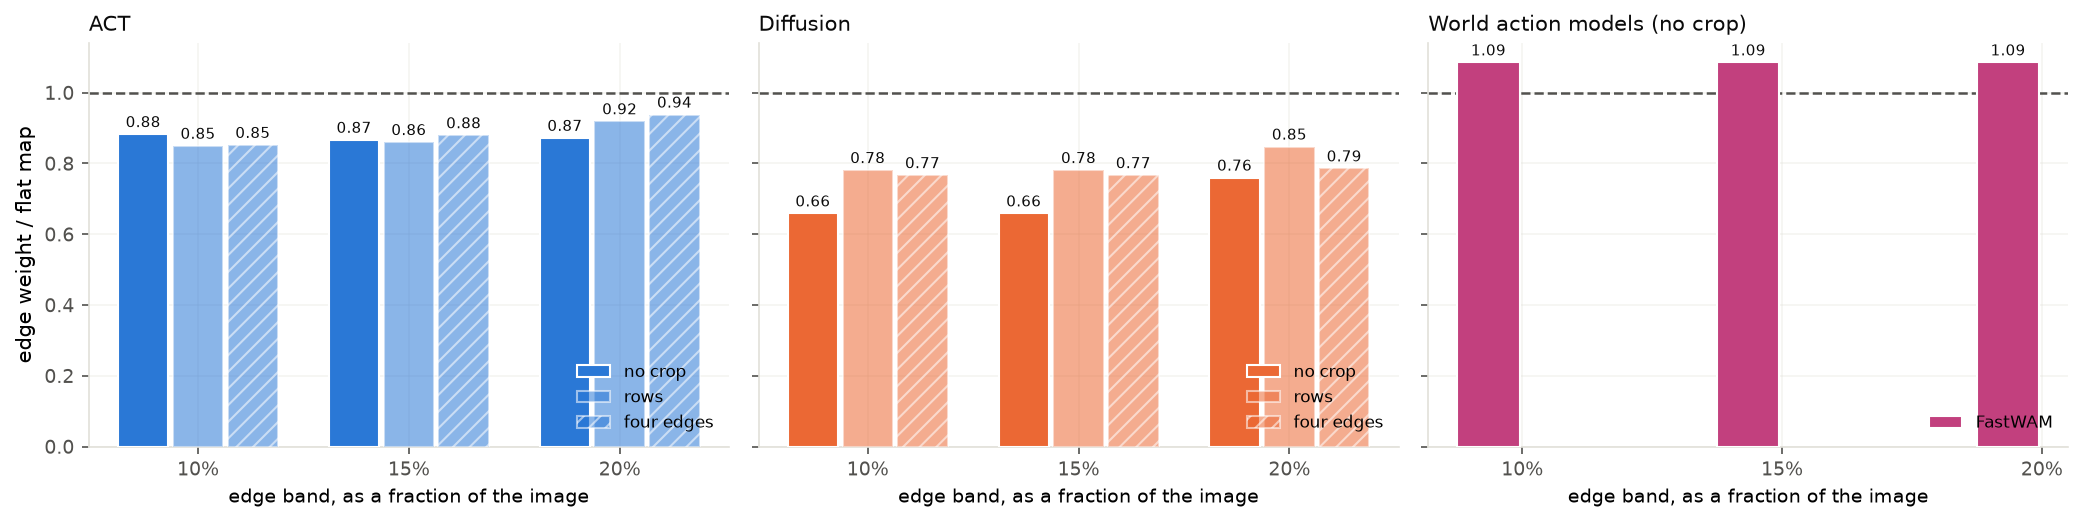
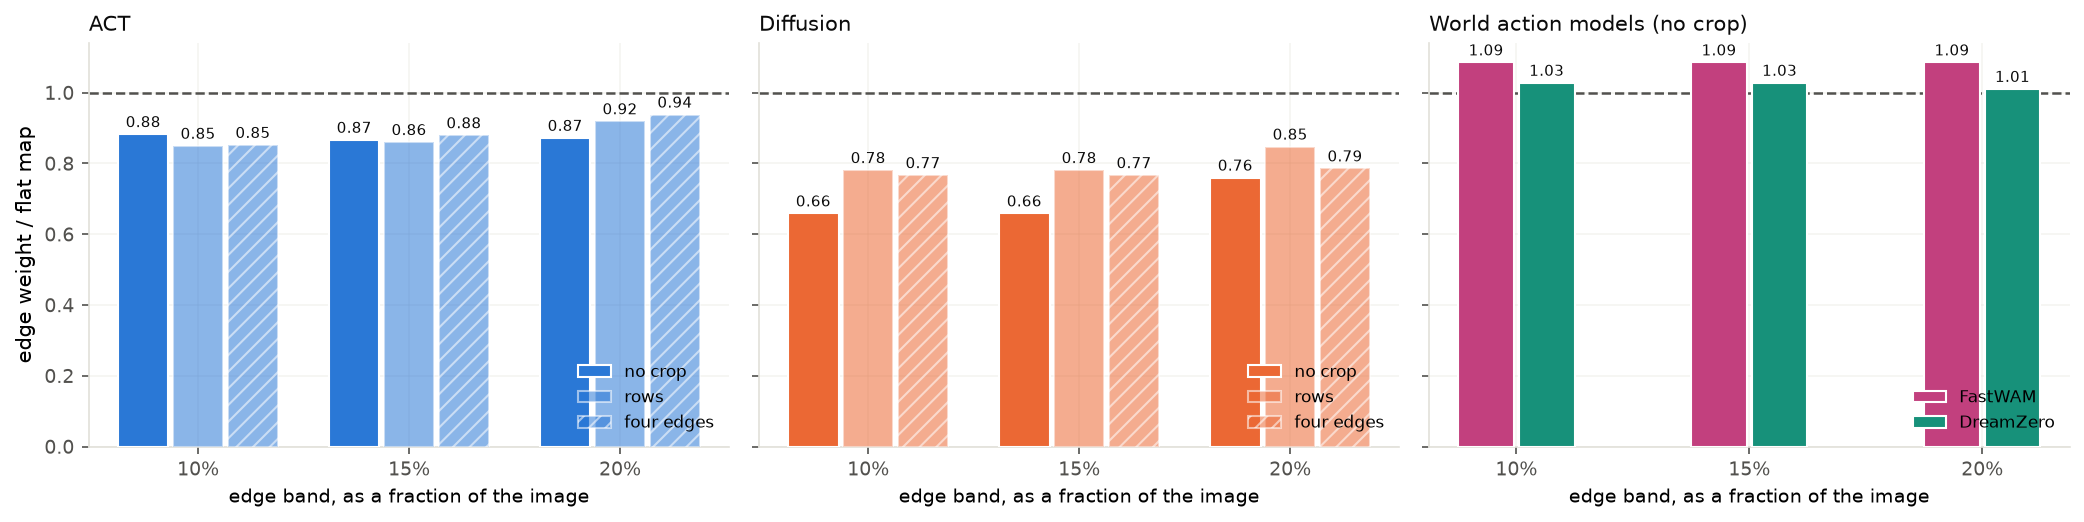
DreamZero Grad-CAM: no edge preference either
Fingertip edges get 1.01 to 1.03 of their area's share. Added to the rim figure
beside FastWAM, with its provenance.

Claude-Session: https://claude.ai/code/session_0196vDjqm3Zo6sQgqQLb5qwQ

diff --git a/documents/paper/training_analysis/sections/03_experiments.tex b/documents/paper/training_analysis/sections/03_experiments.tex
@@ -601,9 +601,11 @@ frames of a test demonstration, the edge band of every uncropped policy receives
 only two thirds to nine tenths of the Grad-CAM weight its area would get
 (Figure~\ref{fig:rim}), at every band width; the strong edge weighting of
 Figure~\ref{fig:gradcamevidence} occurs at some moments but not on average.
-FastWAM's fingertip edges receive 1.09 times their share, close to no
-preference, and its overhead image's edges 0.95 to 1.01. \pending{DreamZero's
-Grad-CAM edge ratio.}
+The world action models, whose maps are much coarser, show no preference
+either: FastWAM's fingertip edges receive 1.09 times their share and DreamZero's
+1.01 to 1.03, against 0.95 to 1.01 (FastWAM) and 1.07 to 1.24 (DreamZero) for
+the edges of the overhead image. Single DreamZero sensors range from 0.80 to
+1.36, with no sensor's edge consistently favoured across band widths.
 
 \begin{figure}[t]
   \centering
@@ -614,7 +616,8 @@ Grad-CAM edge ratio.}
   model looks at the edge \emph{less} than a model that ignored position would.
   Three band widths are shown.} \gn{The world action models' maps come from
   their frozen autoencoders (Section~\ref{sec:measures}); FastWAM's is $7\times7$
-  cells per fingertip, so all three bands are its outer ring of cells.}
+  cells per fingertip and DreamZero's $9\times9$, so for FastWAM all three bands
+  are its outer ring of cells.}
   \label{fig:rim}
 \end{figure}
 

diff --git a/documents/paper/training_analysis/sections/A_appendix.tex b/documents/paper/training_analysis/sections/A_appendix.tex
@@ -273,7 +273,14 @@ are held out. Everything else, including the random seed, is unchanged.
 each tactile Grad-CAM map is defined as a fraction of the image, so that maps of
 different resolution are treated alike. The weight inside the band is divided by
 the weight a flat map of the same size would put there. The maps come from test demonstration 58, every fifth frame; the
-reviewed draft used training demonstrations.
+reviewed draft used training demonstrations. \gn{For the world action models the maps are taken
+at the last feature map of each frozen autoencoder's encoder (its middle block)
+and back-propagated from the planned chunk, with gradients enabled
+through the sampler: for FastWAM from its last denoising step, for DreamZero
+from the chunk before its action smoothing, which would otherwise cut the
+gradient. FastWAM's fingertip map is cut from the composite's $14\times14$ cells
+into four $7\times7$ tiles; DreamZero's is cut by the $3\times3$ grid of its tiled
+frame. Both use 60 frames of test demonstration 58, every fifth frame.}
 
 \textbf{Input contribution (Figures~\ref{fig:streams} and~\ref{fig:framewise}).}
 As in Section~\ref{sec:measures}. Figure~\ref{fig:framewise} uses every fifth
